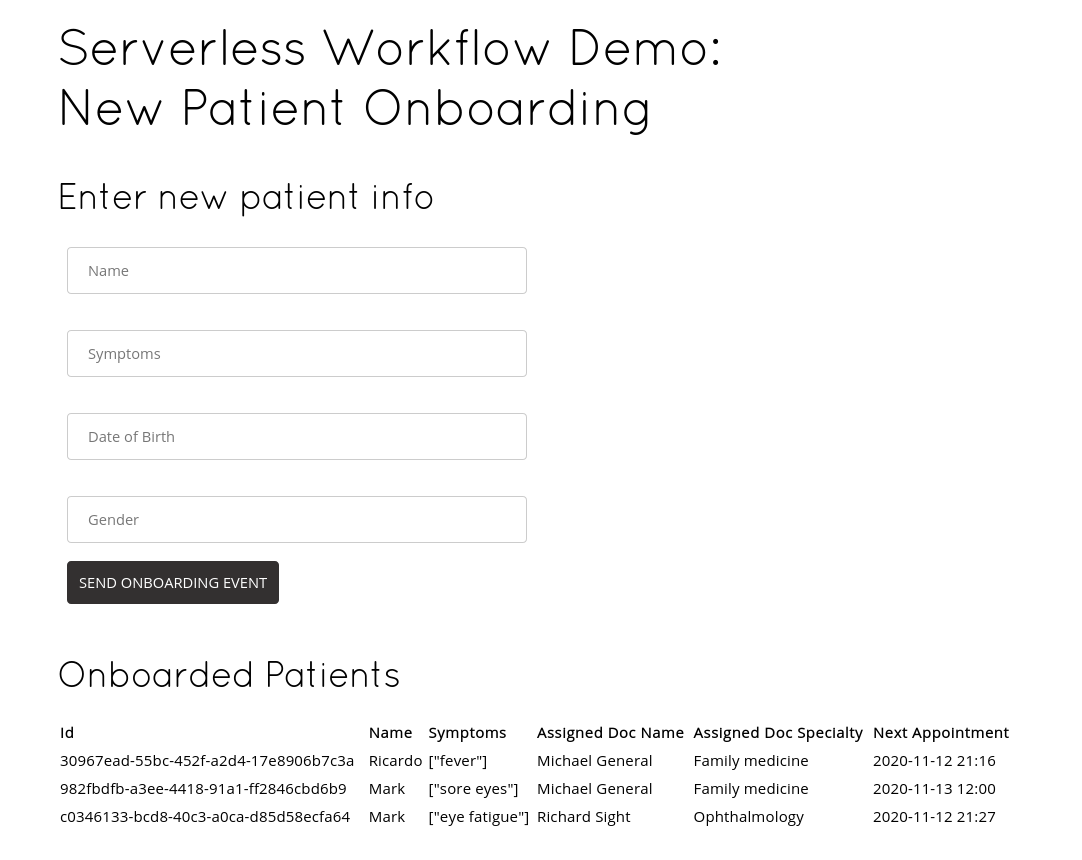
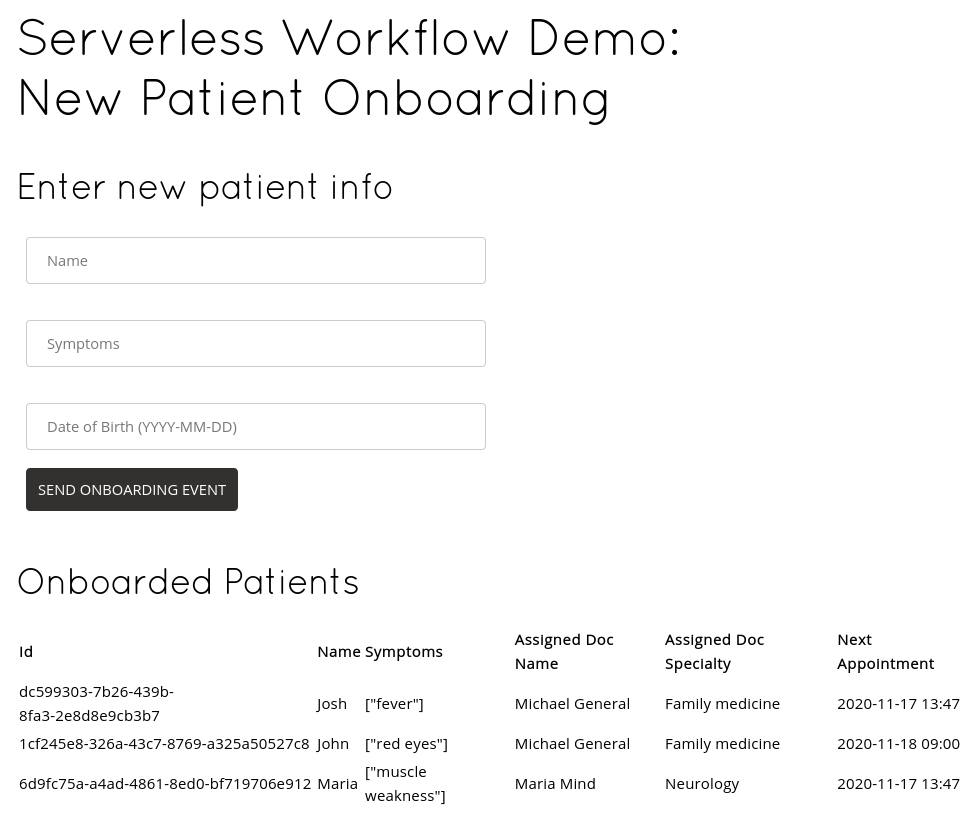
Fixing dates, updating documentation

diff --git a/serverless-workflow-functions-events-quarkus/src/main/java/org/acme/sw/onboarding/services/ScheduleService.java b/serverless-workflow-functions-events-quarkus/src/main/java/org/acme/sw/onboarding/services/ScheduleService.java
@@ -15,10 +15,9 @@
  */
 package org.acme.sw.onboarding.services;
 
+import java.time.LocalDateTime;
 import java.util.ArrayList;
-import java.util.Calendar;
 import java.util.Comparator;
-import java.util.Date;
 import java.util.List;
 import java.util.Map;
 import java.util.Optional;
@@ -37,7 +36,7 @@ public class ScheduleService {
     /*
     Our doctors can attend one patient per day only :)
     */
-    private final Map<String, List<Date>> schedule;
+    private final Map<String, List<LocalDateTime>> schedule;
 
     public ScheduleService() {
         this.schedule = new ConcurrentHashMap<>();
@@ -53,12 +52,12 @@ public class ScheduleService {
         final String doctorId = patient.getAssignedDoctor().getId();
         appointment.setPatient(patient);
         // better case scenario we set an appointment today an hour from now :)
-        appointment.setDate(this.addOneHour(new Date()));
+        appointment.setDate(LocalDateTime.now().plusHours(1));
         appointment.setDoctor(patient.getAssignedDoctor());
 
         // let's find room for our patient
         if (this.schedule.get(doctorId) != null) {
-            final Optional<Date> lastDate = this.schedule.get(doctorId).stream().max(Comparator.nullsFirst(Comparator.naturalOrder()));
+            final Optional<LocalDateTime> lastDate = this.schedule.get(doctorId).stream().max(Comparator.nullsFirst(Comparator.naturalOrder()));
             appointment.setDate(this.addOneDayFirstHourInMorning(lastDate.orElseThrow(IllegalStateException::new)));
         } else { // this doctor hasn't been set an appointment yet
             this.schedule.put(doctorId, new ArrayList<>());
@@ -68,19 +67,7 @@ public class ScheduleService {
         return appointment;
     }
 
-    private Date addOneHour(final Date targetDate) {
-        final Calendar calendar = Calendar.getInstance();
-        calendar.setTime(targetDate);
-        calendar.add(Calendar.HOUR, 1);
-        return calendar.getTime();
-    }
-
-    private Date addOneDayFirstHourInMorning(final Date targetDate) {
-        final Calendar calendar = Calendar.getInstance();
-        calendar.setTime(targetDate);
-        calendar.add(Calendar.DATE, 1);
-        calendar.set(Calendar.HOUR_OF_DAY, FIRST_HOUR_MORNING);
-        calendar.set(Calendar.MINUTE, 0);
-        return calendar.getTime();
+    private LocalDateTime addOneDayFirstHourInMorning(final LocalDateTime targetDate) {
+        return targetDate.plusDays(1).withHour(FIRST_HOUR_MORNING).withMinute(0);
     }
 }

diff --git a/serverless-workflow-functions-events-quarkus/src/test/java/org/acme/sw/onboarding/services/ScheduleServiceTest.java b/serverless-workflow-functions-events-quarkus/src/test/java/org/acme/sw/onboarding/services/ScheduleServiceTest.java
@@ -15,8 +15,7 @@
  */
 package org.acme.sw.onboarding.services;
 
-import java.util.Calendar;
-import java.util.Date;
+import java.time.LocalDateTime;
 import java.util.List;
 
 import javax.inject.Inject;
@@ -60,10 +59,8 @@ class ScheduleServiceTest {
         assertEquals(markAppointment.getDoctor(), mark.getAssignedDoctor());
         assertNotNull(markAppointment.getDate());
 
-        assertTrue(markAppointment.getDate().after(michaelAppointment.getDate()));
-        assertEquals(new Calendar.Builder().setInstant(markAppointment.getDate()).build().get(Calendar.HOUR_OF_DAY),
-                     ScheduleService.FIRST_HOUR_MORNING);
-        assertEquals(new Calendar.Builder().setInstant(michaelAppointment.getDate()).build().get(Calendar.DATE),
-                     new Calendar.Builder().setInstant(new Date()).build().get(Calendar.DATE));
+        assertTrue(markAppointment.getDate().isAfter(michaelAppointment.getDate()));
+        assertEquals(ScheduleService.FIRST_HOUR_MORNING, markAppointment.getDate().getHour());
+        assertEquals(LocalDateTime.now().getDayOfMonth(), michaelAppointment.getDate().getDayOfMonth());
     }
 }

diff --git a/serverless-workflow-functions-events-quarkus/src/main/java/org/acme/sw/onboarding/resources/AppointmentResource.java b/serverless-workflow-functions-events-quarkus/src/main/java/org/acme/sw/onboarding/resources/AppointmentResource.java
@@ -15,8 +15,8 @@
  */
 package org.acme.sw.onboarding.resources;
 
+import java.time.LocalDateTime;
 import java.util.ArrayList;
-import java.util.Date;
 import java.util.List;
 import java.util.stream.Collectors;
 
@@ -80,14 +80,14 @@ public class AppointmentResource {
     @GET
     @Path("/doctor/{id}")
     public List<Appointment> getScheduleForDoctor(@NotEmpty @PathParam("id") final String doctorId) {
-        return this.appointments.stream().filter(a -> a.getDoctor().equals(doctorId)).collect(Collectors.toList());
+        return this.appointments.stream().filter(a -> a.getDoctor().getId().equals(doctorId)).collect(Collectors.toList());
     }
 
     @GET
     @Path("/patient/{id}")
     public List<Appointment> getScheduleForPatient(@NotEmpty @PathParam("id") final String patientId) {
         return this.appointments.stream()
-                .filter(a -> a.getPatient().getId().equals(patientId) && a.getDate().after(new Date()))
+                .filter(a -> a.getPatient().getId().equals(patientId) && a.getDate().isAfter(LocalDateTime.now()))
                 .collect(Collectors.toList());
     }
 }

diff --git a/serverless-workflow-functions-events-quarkus/src/main/java/org/acme/sw/onboarding/model/Appointment.java b/serverless-workflow-functions-events-quarkus/src/main/java/org/acme/sw/onboarding/model/Appointment.java
@@ -15,7 +15,7 @@
  */
 package org.acme.sw.onboarding.model;
 
-import java.util.Date;
+import java.time.LocalDateTime;
 import java.util.Objects;
 
 import com.fasterxml.jackson.annotation.JsonFormat;
@@ -27,13 +27,13 @@ public class Appointment {
     private Doctor doctor;
     private Patient patient;
     @JsonFormat(shape = JsonFormat.Shape.STRING, pattern = "yyyy-MM-dd HH:mm")
-    private Date date;
+    private LocalDateTime date;
 
-    public Date getDate() {
+    public LocalDateTime getDate() {
         return date;
     }
 
-    public void setDate(Date date) {
+    public void setDate(LocalDateTime date) {
         this.date = date;
     }
 

diff --git a/serverless-workflow-functions-events-quarkus/README.md b/serverless-workflow-functions-events-quarkus/README.md
@@ -26,6 +26,19 @@ The workflow starts with a CloudEvent informing a new patient entry:
 }
 ```
 
+Or you can use CURL and set the CloudEvents parameters in the request headers:
+
+```shell script
+$ curl -X POST \
+      -H "content-type: application/json"  \
+      -H "ce-specversion: 1.0"  \
+      -H "ce-source: /hospital/entry"  \
+      -H "ce-type: new.patients.events"  \
+      -H "ce-id: 12346"  \
+      -d "{ \"name\": \"Mick\", \"dateOfBirth\": \"1983-08-15\", \"symptoms\":[\"seizures\"]}" \
+  http://localhost:8080
+```
+
 The [workflow](src/main/resources/onbording.sw.json) will then call a sequence of REST services:
 
 1. `StoreNewPatient` will store the patient in the internal database for later processing, generating a new ID for they
@@ -62,6 +75,60 @@ When using native image compilation, you will also need:
 ```text
 mvn clean package quarkus:dev    
 ```
+
+Use `curl` to send the CloudEvent through HTTP to the application:
+
+```shell script
+$ curl -X POST \
+      -H "content-type: application/json"  \
+      -H "ce-specversion: 1.0"  \
+      -H "ce-source: /hospital/entry"  \
+      -H "ce-type: new.patients.events"  \
+      -H "ce-id: 12346"  \
+      -d "{ \"name\": \"Mick\", \"dateOfBirth\": \"1983-08-15\", \"symptoms\":[\"seizures\"]}" \
+  http://localhost:8080
+```
+
+In the application log, you will see something like:
+
+```log
+2020-11-17 12:51:11,581 DEBUG [org.acm.sw.onb.res.PatientResource] (executor-thread-198) Received patient to store in the internal in memory database: Patient{name='Mick', id='null', symptoms=[seizures], dateOfBirth=1983-08-15}
+2020-11-17 12:51:11,581 DEBUG [org.acm.sw.onb.res.PatientResource] (executor-thread-198) Patient has been stored in the internal memory: Patient{name='Mick', id='5560ed3d-becb-4f35-8c6a-2816338bf8fd', symptoms=[seizures], dateOfBirth=1983-08-15}
+2020-11-17 12:51:11,600 DEBUG [org.acm.sw.onb.res.AppointmentResource] (executor-thread-198) Receive patient to schedule appointments: Patient{name='Mick', id='5560ed3d-becb-4f35-8c6a-2816338bf8fd', symptoms=[seizures], dateOfBirth=1983-08-15}
+2020-11-17 12:51:11,600 DEBUG [org.acm.sw.onb.res.AppointmentResource] (executor-thread-198) Processed patient: Patient{name='Mick', id='5560ed3d-becb-4f35-8c6a-2816338bf8fd', symptoms=[seizures], dateOfBirth=1983-08-15}
+```
+
+Then query the appointments' resource to see the assigned doctor:
+
+```shell script
+$ curl http://localhost:8080/onboarding/schedule/appointment | jq '.'
+
+[
+  {
+    "doctor": {
+      "id": "8293dc94-2386-11eb-adc1-0242ac120002",
+      "name": "Maria Mind",
+      "specialty": "Neurology"
+    },
+    "patient": {
+      "name": "Mick",
+      "id": "5560ed3d-becb-4f35-8c6a-2816338bf8fd",
+      "symptoms": [
+        "seizures"
+      ],
+      "dateOfBirth": "1983-08-15",
+      "assignedDoctor": {
+        "id": "8293dc94-2386-11eb-adc1-0242ac120002",
+        "name": "Maria Mind",
+        "specialty": "Neurology"
+      }
+    },
+    "date": "2020-11-18 09:00"
+  }
+]
+```
+
+_**Note:** Please make sure you have [jq](https://stedolan.github.io/jq/download/) installed in your system to see the formatted output._
 
 ### Compile and Run in JVM mode
 
